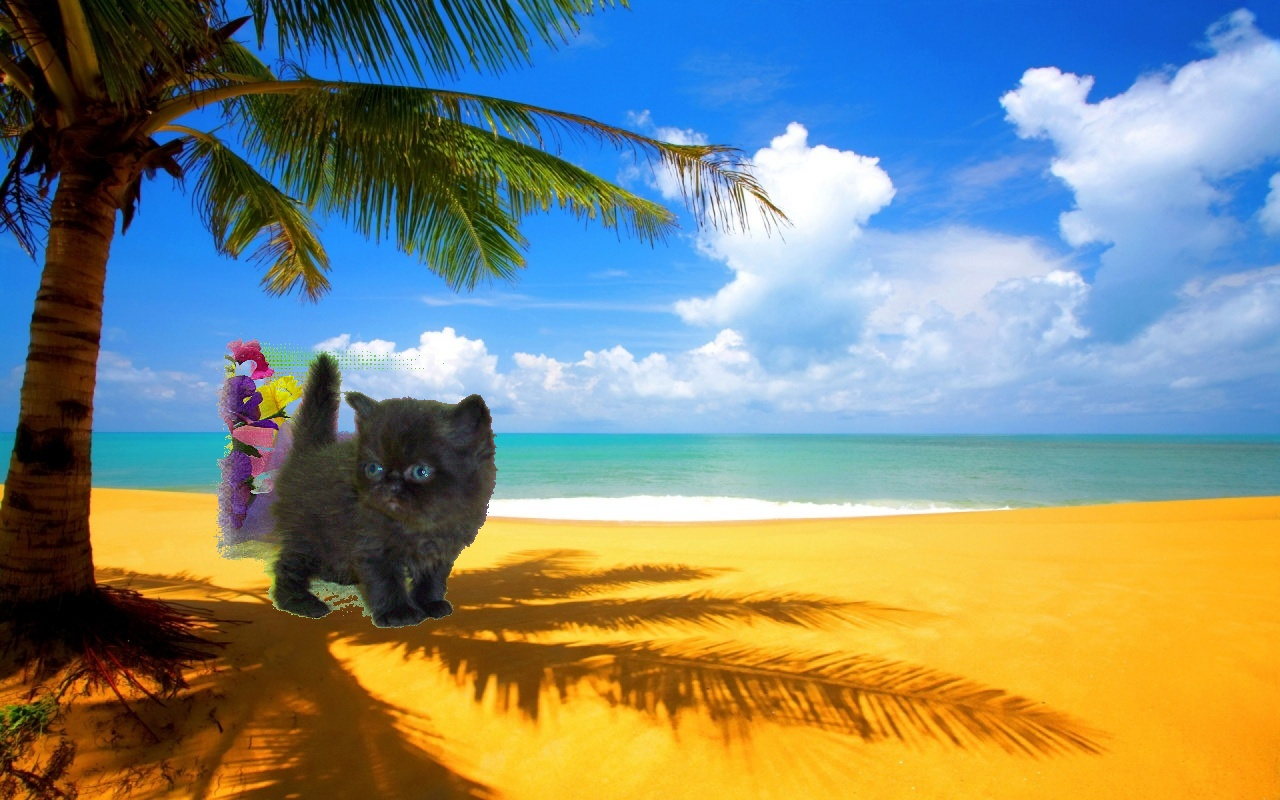
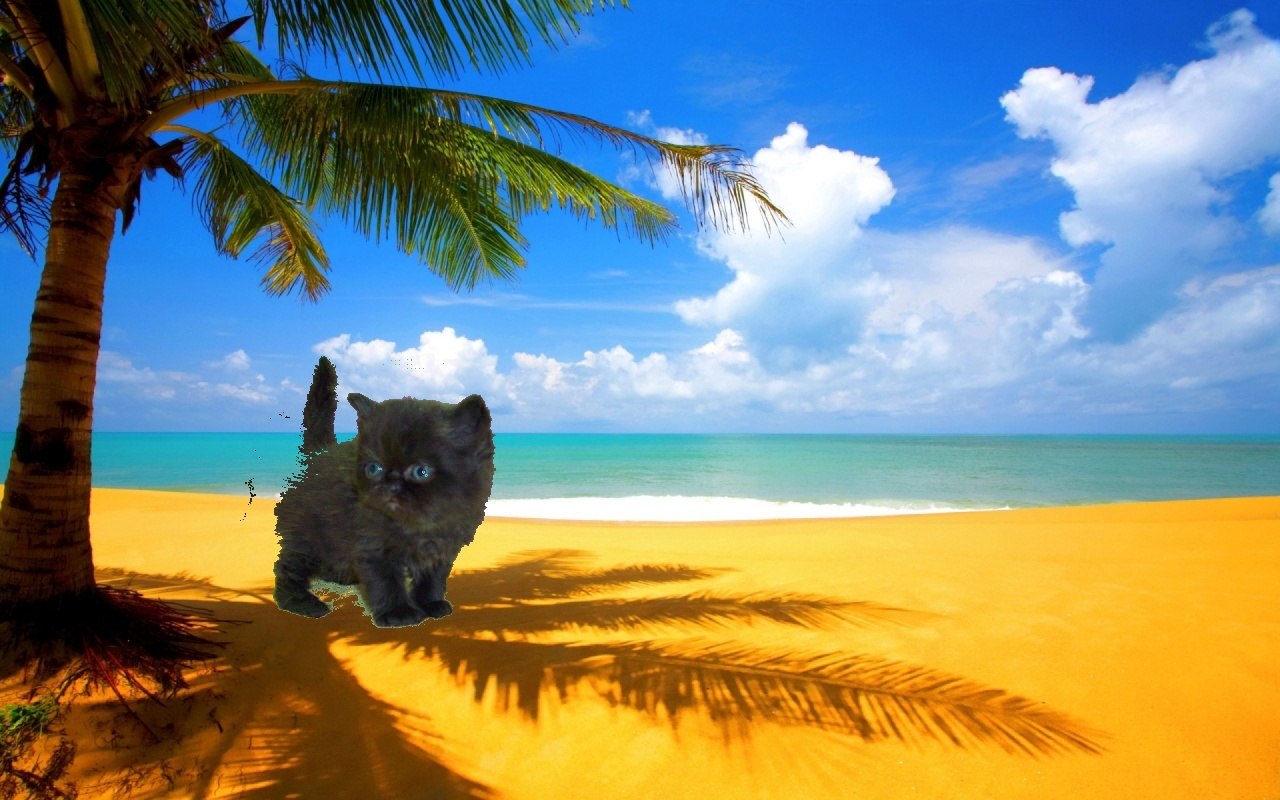
1.分类数目增加至8类 2.提取其中两类组成黑猫

Changed region(s): [[0.1562, 0.4062, 0.3125, 0.75], [0.25, 0.7188, 0.2812, 0.7812], [0.3438, 0.6562, 0.375, 0.6875]]

diff --git a/image_segmentation/image_segmentation.py b/image_segmentation/image_segmentation.py
@@ -28,7 +28,7 @@ if __name__ == "__main__":
 
     # sklearn kmeans聚类
     # data = cv2.normalize(data, None, 0, 1, cv2.NORM_MINMAX)
-    kmeans = KMeans(n_clusters=2)
+    kmeans = KMeans(n_clusters=8)
     kmeans.fit(data)
     print("kmeans result shape:", kmeans.labels_.shape)
 
@@ -36,14 +36,39 @@ if __name__ == "__main__":
     resSeries = pd.Series(kmeans.labels_)
     cate0 = resSeries[resSeries.values == 0] #获取类别0的数据
     cate1 = resSeries[resSeries.values == 1] #获取类别1的数据
+    cate2 = resSeries[resSeries.values == 2] #获取类别2的数据
+    cate3 = resSeries[resSeries.values == 3] #获取类别3的数据
+    cate4 = resSeries[resSeries.values == 4] #获取类别4的数据
+    cate5 = resSeries[resSeries.values == 5] #获取类别5的数据
+    cate6 = resSeries[resSeries.values == 6] #获取类别6的数据
+    cate7 = resSeries[resSeries.values == 7] #获取类别7的数据
 
-    #数据量少的类别是黑猫
-    if (cate0.index.__len__() < cate1.index.__len__()):
-        blackcat = cate0.index
-    else:
-        blackcat = cate1.index
+    median = [0 for i in range(9)]
+    median[0] = np.median(cate0.index)
+    median[1] = np.median(cate1.index)
+    median[2] = np.median(cate2.index)
+    median[3] = np.median(cate3.index)
+    median[4] = np.median(cate4.index)
+    median[5] = np.median(cate5.index)
+    median[6] = np.median(cate6.index)
+    median[7] = np.median(cate7.index)
+    median[8] = kmeans.labels_.shape[0]/2
+    print(median[8])
 
-    #定义起始点
+    median_set = [0 for i in range(8)]
+    for j in range(8):
+        median_set[j] = abs(median[8] - median[j])
+    print(median_set)
+
+    index1 = median_set.index(sorted(median_set)[3])
+    index2 = median_set.index(sorted(median_set)[1])
+    print(index1, index2)
+
+    cat_part1 = resSeries[resSeries.values == index1].index
+    cat_part2 = resSeries[resSeries.values == index2].index
+    blackcat = cat_part1.append(cat_part2)
+
+    # 定义起始点
     u = np.uint16(beach.shape[1]/4.0)
     v = np.uint16(beach.shape[0]/4.0)
     print("start point:", u, v)
@@ -67,5 +92,6 @@ if __name__ == "__main__":
     cv2.waitKey(0)
     cv2.imwrite("./kmeans_result.jpg", dst)
     cv2.imwrite("./beach_cat.jpg", beach)
+    cv2.imwrite("cat_on_beach.jpg", beach)
 
 
